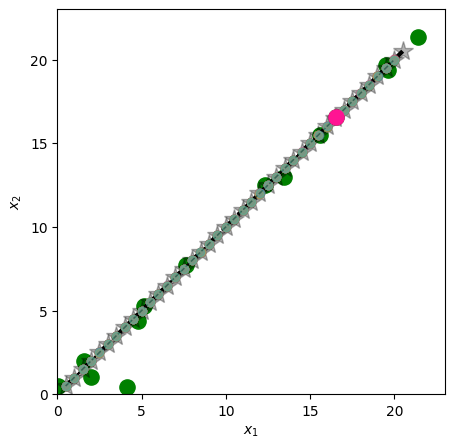
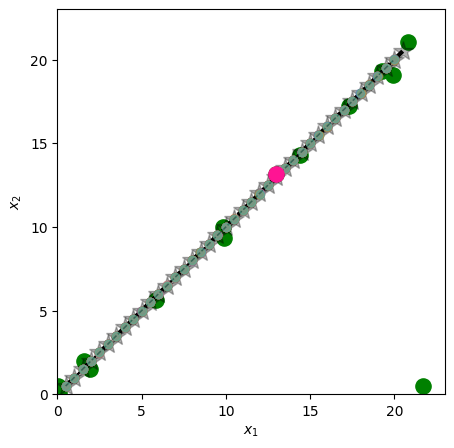
its working but just tryna improve speed now

diff --git a/project_name/main_test.py b/project_name/main_test.py
@@ -201,49 +201,53 @@ def return_optimised_posterior(data: gpjax.Dataset, prior: gpjax.gps.Prior, key)
     return opt_posterior
 
 def sample_and_optimize_posterior(optimized_posteriors, D, key, lower_bound, upper_bound, num_samples=20):
-    def apply_sample_func(posterior, gp_idx, sample_key, x):
-        data = gpjax.Dataset(X=D.X, y=jnp.expand_dims(D.y[:, gp_idx], axis=-1))
-        sample_func = posterior.sample_approx(num_samples=1, train_data=data, key=sample_key, num_features=500)
-        return sample_func(x)
+    def apply_fn(sample_func, x_data):
+        return sample_func(x_data)
 
-    def step_fn(carry, _):
-        x, sample_keys = carry
+    def create_path(xs, ys):
+        return ExPath(jnp.squeeze(xs, axis=-2), jnp.squeeze(ys, axis=-2))
 
-        predictions = []
+    def outer_loop(key):
+        sample_func_list = []
         for gp_idx, posterior in enumerate(optimized_posteriors):
-            y = apply_sample_func(posterior, gp_idx, sample_keys[gp_idx], x)
-            predictions.append(y)
+            data = gpjax.Dataset(X=D.X, y=jnp.expand_dims(D.y[:, gp_idx], axis=-1))
+            key, _key = jrandom.split(key)
+            sample_func = posterior.sample_approx(num_samples=1, train_data=data, key=_key, num_features=500)
+            sample_func_list.append(sample_func)
 
-        y_tot = jnp.concatenate(predictions, axis=-1)
+        def _step_fn(this_x, _):
+            predictions = []
+            for sample_func in sample_func_list:
+                y = apply_fn(sample_func, this_x)
+                predictions.append(y)
 
-        next_x = jnp.clip(x + y_tot, jnp.array([domain[0][0], domain[1][0]]), jnp.array([domain[0][1], domain[1][1]]))
+            y_tot = jnp.concatenate(predictions, axis=-1)
 
-        return (next_x, sample_keys), (x, y_tot)
+            next_x = jnp.clip(this_x + y_tot, jnp.array([domain[0][0], domain[1][0]]), jnp.array([domain[0][1], domain[1][1]]))
 
-    vmapped_step_fn = jax.vmap(step_fn, in_axes=(0, None), out_axes=(0, 0))
+            return next_x, (this_x, y_tot)
 
-    num_gps = len(optimized_posteriors)
-    key, subkey = jrandom.split(key)
-    all_keys = jrandom.split(subkey, num_samples * num_gps)
-    sample_keys = all_keys.reshape((num_samples, num_gps, 2))
+        _, (all_xs, all_ys) = jax.lax.scan(_step_fn, init_x, None, length=40)
+
+        exe_path = create_path(all_xs, all_ys)
+
+        sample_mus = []
+        sample_stds = []
+        for gp_idx, posterior in enumerate(optimized_posteriors):
+            comb_x = jnp.concatenate((D.X, exe_path.x))
+            comb_y = jnp.concatenate((jnp.expand_dims(D.y[:, gp_idx], axis=-1), exe_path.y))
+
+        return all_xs, all_ys, exe_path
 
     # Create initial state for all samples
     init_x = jnp.array([[0.5, 0.5]])
-    init_xs = jnp.tile(init_x, (num_samples, 1, 1))
+    # init_xs = jnp.tile(init_x, (num_samples, 1, 1))
 
-    # Set up the scan to run for 40 steps
-    init_carry = (init_xs, jnp.array(sample_keys))
-    (_, _), (all_xs, all_ys) = jax.lax.scan(lambda c, _: vmapped_step_fn(c, None), init_carry, None, length=40)
+    key, _key = jrandom.split(key)
+    batch_key = jrandom.split(key, num_samples)
+    all_xs, all_ys, exe_path = jax.vmap(outer_loop)(batch_key)
 
-    def create_path(xs, ys):
-        return ExPath(jnp.squeeze(xs, axis=1), jnp.squeeze(ys, axis=1))
-
-    all_paths = jax.vmap(create_path)(all_xs, all_ys)
-    exe_path = jax.tree_util.tree_map(lambda x: jnp.swapaxes(x, 0, 1), all_paths)
-
-    x_star_list = optimise_sample(optimized_posteriors, D, key, lower_bound, upper_bound, exe_path.x, exe_path.y,
-                                  num_initial_sample_points=1000)
-    return x_star_list, exe_path.x
+    return exe_path
 
 def optimise_sample(optimized_posteriors, D, key, lower_bound, upper_bound, exe_path_x, exe_path_y, num_initial_sample_points):
     key, _key = jr.split(key)
@@ -281,7 +285,7 @@ def optimise_sample(optimized_posteriors, D, key, lower_bound, upper_bound, exe_
         predictive_stds.append(predictive_std)
 
         sample_mean, sample_std = jax.vmap(test_vmap, in_axes=(None, None, 0, 0, None, None))(D.X, jnp.expand_dims(
-            D.y[:, gp_idx], axis=-1), exe_path_x, np.expand_dims(exe_path_y[:, :, gp_idx], axis=-1), posterior,
+            D.y[:, gp_idx], axis=-1), exe_path_x, jnp.expand_dims(exe_path_y[:, :, gp_idx], axis=-1), posterior,
                                                                                               initial_sample_points)
         sample_mus.append(sample_mean)
         sample_stds.append(sample_std)
@@ -337,7 +341,13 @@ for i in range(bo_iters):
 
     # Sample from posteriors and find minimizer
     key, _key = jr.split(key)
-    x_star, exe_path_list = sample_and_optimize_posterior(optimized_posteriors, D, _key, lower_bound, upper_bound)
+    ind_time = time.time()
+    exe_path = sample_and_optimize_posterior(optimized_posteriors, D, _key, lower_bound, upper_bound)  # TODO is it potentialy quicker and more efficient to just sample from the posterior likelihood and vmap across this?
+    print(f"{time.time() - ind_time} - Exe path time taken")
+    ind_time = time.time()
+    x_star = optimise_sample(optimized_posteriors, D, key, lower_bound, upper_bound, exe_path.x, exe_path.y,
+                                  num_initial_sample_points=1000)
+    print(f"{time.time() - ind_time} - Optimisation time taken")
     y_star = f([x_star[0], x_star[1]])
     print(f"BO Iteration: {i + 1}, Queried Point: {x_star}, Black-Box Function Value:" f" {y_star}")
 
@@ -348,7 +358,7 @@ for i in range(bo_iters):
 
     # Plot true path and posterior path samples
     plot_path_2d(true_path, ax, true_path=True)
-    for path in exe_path_list:
+    for path in exe_path.x:
         plot_path_2d_jax(path, ax)
 
     # Plot observations
